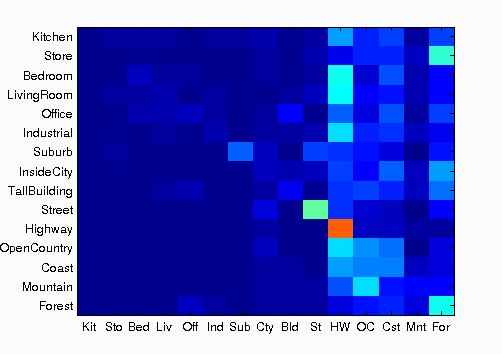
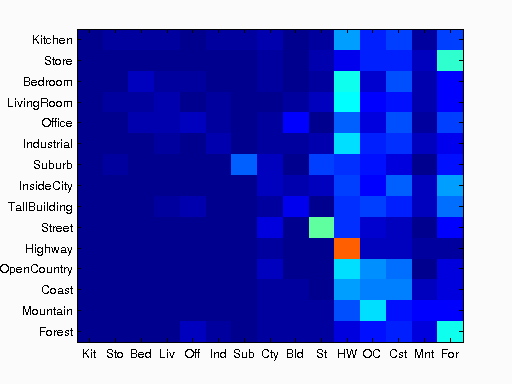
finish get_bags_of_sifts

diff --git a/mcln/proj3/code/results_webpage/index.html b/mcln/proj3/code/results_webpage/index.html
@@ -51,182 +51,182 @@ Accuracy (mean of diagonal of confusion matrix) is 0.188
 <tr>
 <td>Kitchen</td>
 <td>0.010</td>
-<td bgcolor=LightBlue><img src="thumbnails/Kitchen_image_0020.jpg" width=100 height=75></td>
-<td bgcolor=LightBlue><img src="thumbnails/Kitchen_image_0058.jpg" width=98 height=75></td>
+<td bgcolor=LightBlue><img src="thumbnails/Kitchen_image_0208.jpg" width=100 height=75></td>
+<td bgcolor=LightBlue><img src="thumbnails/Kitchen_image_0074.jpg" width=107 height=75></td>
 <td bgcolor=LightGreen><img src="thumbnails/Kitchen_image_0003.jpg" width=100 height=75></td>
 <td bgcolor=LightGreen></td>
-<td bgcolor=LightCoral><img src="thumbnails/TallBuilding_image_0113.jpg" width=75 height=75><br><small>TallBuilding</small></td>
 <td bgcolor=LightCoral><img src="thumbnails/Suburb_image_0050.jpg" width=113 height=75><br><small>Suburb</small></td>
-<td bgcolor=#FFBB55><img src="thumbnails/Kitchen_image_0021.jpg" width=100 height=75><br><small>InsideCity</small></td>
-<td bgcolor=#FFBB55><img src="thumbnails/Kitchen_image_0051.jpg" width=100 height=75><br><small>Coast</small></td>
+<td bgcolor=LightCoral><img src="thumbnails/Street_image_0149.jpg" width=75 height=75><br><small>Street</small></td>
+<td bgcolor=#FFBB55><img src="thumbnails/Kitchen_image_0027.jpg" width=57 height=75><br><small>Highway</small></td>
+<td bgcolor=#FFBB55><img src="thumbnails/Kitchen_image_0122.jpg" width=57 height=75><br><small>Forest</small></td>
 </tr>
 <tr>
 <td>Store</td>
 <td>0.010</td>
-<td bgcolor=LightBlue><img src="thumbnails/Store_image_0062.jpg" width=100 height=75></td>
-<td bgcolor=LightBlue><img src="thumbnails/Store_image_0253.jpg" width=114 height=75></td>
+<td bgcolor=LightBlue><img src="thumbnails/Store_image_0261.jpg" width=112 height=75></td>
+<td bgcolor=LightBlue><img src="thumbnails/Store_image_0119.jpg" width=100 height=75></td>
 <td bgcolor=LightGreen><img src="thumbnails/Store_image_0057.jpg" width=100 height=75></td>
 <td bgcolor=LightGreen></td>
-<td bgcolor=LightCoral><img src="thumbnails/Kitchen_image_0138.jpg" width=100 height=75><br><small>Kitchen</small></td>
-<td bgcolor=LightCoral><img src="thumbnails/Office_image_0067.jpg" width=117 height=75><br><small>Office</small></td>
-<td bgcolor=#FFBB55><img src="thumbnails/Store_image_0063.jpg" width=57 height=75><br><small>Forest</small></td>
-<td bgcolor=#FFBB55><img src="thumbnails/Store_image_0031.jpg" width=109 height=75><br><small>Forest</small></td>
+<td bgcolor=LightCoral><img src="thumbnails/Coast_image_0096.jpg" width=75 height=75><br><small>Coast</small></td>
+<td bgcolor=LightCoral><img src="thumbnails/Kitchen_image_0080.jpg" width=100 height=75><br><small>Kitchen</small></td>
+<td bgcolor=#FFBB55><img src="thumbnails/Store_image_0021.jpg" width=100 height=75><br><small>Street</small></td>
+<td bgcolor=#FFBB55><img src="thumbnails/Store_image_0113.jpg" width=100 height=75><br><small>Forest</small></td>
 </tr>
 <tr>
 <td>Bedroom</td>
 <td>0.060</td>
 <td bgcolor=LightBlue><img src="thumbnails/Bedroom_image_0083.jpg" width=57 height=75></td>
-<td bgcolor=LightBlue><img src="thumbnails/Bedroom_image_0101.jpg" width=104 height=75></td>
-<td bgcolor=LightGreen><img src="thumbnails/Bedroom_image_0161.jpg" width=100 height=75></td>
-<td bgcolor=LightGreen><img src="thumbnails/Bedroom_image_0180.jpg" width=78 height=75></td>
-<td bgcolor=LightCoral><img src="thumbnails/Office_image_0110.jpg" width=107 height=75><br><small>Office</small></td>
-<td bgcolor=LightCoral><img src="thumbnails/Industrial_image_0114.jpg" width=49 height=75><br><small>Industrial</small></td>
-<td bgcolor=#FFBB55><img src="thumbnails/Bedroom_image_0114.jpg" width=100 height=75><br><small>Forest</small></td>
-<td bgcolor=#FFBB55><img src="thumbnails/Bedroom_image_0021.jpg" width=113 height=75><br><small>Office</small></td>
+<td bgcolor=LightBlue><img src="thumbnails/Bedroom_image_0075.jpg" width=95 height=75></td>
+<td bgcolor=LightGreen><img src="thumbnails/Bedroom_image_0119.jpg" width=113 height=75></td>
+<td bgcolor=LightGreen><img src="thumbnails/Bedroom_image_0035.jpg" width=115 height=75></td>
+<td bgcolor=LightCoral><img src="thumbnails/Office_image_0037.jpg" width=108 height=75><br><small>Office</small></td>
+<td bgcolor=LightCoral><img src="thumbnails/LivingRoom_image_0065.jpg" width=75 height=75><br><small>LivingRoom</small></td>
+<td bgcolor=#FFBB55><img src="thumbnails/Bedroom_image_0122.jpg" width=101 height=75><br><small>Forest</small></td>
+<td bgcolor=#FFBB55><img src="thumbnails/Bedroom_image_0029.jpg" width=133 height=75><br><small>Forest</small></td>
 </tr>
 <tr>
 <td>LivingRoom</td>
 <td>0.040</td>
-<td bgcolor=LightBlue><img src="thumbnails/LivingRoom_image_0264.jpg" width=94 height=75></td>
-<td bgcolor=LightBlue><img src="thumbnails/LivingRoom_image_0115.jpg" width=111 height=75></td>
-<td bgcolor=LightGreen><img src="thumbnails/LivingRoom_image_0003.jpg" width=114 height=75></td>
+<td bgcolor=LightBlue><img src="thumbnails/LivingRoom_image_0006.jpg" width=113 height=75></td>
+<td bgcolor=LightBlue><img src="thumbnails/LivingRoom_image_0193.jpg" width=101 height=75></td>
+<td bgcolor=LightGreen><img src="thumbnails/LivingRoom_image_0068.jpg" width=100 height=75></td>
 <td bgcolor=LightGreen><img src="thumbnails/LivingRoom_image_0004.jpg" width=100 height=75></td>
-<td bgcolor=LightCoral><img src="thumbnails/Kitchen_image_0116.jpg" width=100 height=75><br><small>Kitchen</small></td>
-<td bgcolor=LightCoral><img src="thumbnails/Office_image_0007.jpg" width=119 height=75><br><small>Office</small></td>
-<td bgcolor=#FFBB55><img src="thumbnails/LivingRoom_image_0126.jpg" width=57 height=75><br><small>Forest</small></td>
-<td bgcolor=#FFBB55><img src="thumbnails/LivingRoom_image_0107.jpg" width=129 height=75><br><small>Highway</small></td>
+<td bgcolor=LightCoral><img src="thumbnails/Office_image_0158.jpg" width=121 height=75><br><small>Office</small></td>
+<td bgcolor=LightCoral><img src="thumbnails/Office_image_0024.jpg" width=111 height=75><br><small>Office</small></td>
+<td bgcolor=#FFBB55><img src="thumbnails/LivingRoom_image_0037.jpg" width=113 height=75><br><small>Street</small></td>
+<td bgcolor=#FFBB55><img src="thumbnails/LivingRoom_image_0010.jpg" width=100 height=75><br><small>Street</small></td>
 </tr>
 <tr>
 <td>Office</td>
 <td>0.050</td>
-<td bgcolor=LightBlue><img src="thumbnails/Office_image_0093.jpg" width=118 height=75></td>
-<td bgcolor=LightBlue><img src="thumbnails/Office_image_0098.jpg" width=126 height=75></td>
-<td bgcolor=LightGreen><img src="thumbnails/Office_image_0147.jpg" width=116 height=75></td>
-<td bgcolor=LightGreen><img src="thumbnails/Office_image_0075.jpg" width=103 height=75></td>
-<td bgcolor=LightCoral><img src="thumbnails/TallBuilding_image_0025.jpg" width=75 height=75><br><small>TallBuilding</small></td>
-<td bgcolor=LightCoral><img src="thumbnails/Forest_image_0017.jpg" width=75 height=75><br><small>Forest</small></td>
-<td bgcolor=#FFBB55><img src="thumbnails/Office_image_0034.jpg" width=101 height=75><br><small>Forest</small></td>
-<td bgcolor=#FFBB55><img src="thumbnails/Office_image_0072.jpg" width=113 height=75><br><small>Coast</small></td>
+<td bgcolor=LightBlue><img src="thumbnails/Office_image_0052.jpg" width=94 height=75></td>
+<td bgcolor=LightBlue><img src="thumbnails/Office_image_0178.jpg" width=122 height=75></td>
+<td bgcolor=LightGreen><img src="thumbnails/Office_image_0022.jpg" width=102 height=75></td>
+<td bgcolor=LightGreen><img src="thumbnails/Office_image_0012.jpg" width=87 height=75></td>
+<td bgcolor=LightCoral><img src="thumbnails/Forest_image_0025.jpg" width=75 height=75><br><small>Forest</small></td>
+<td bgcolor=LightCoral><img src="thumbnails/Industrial_image_0098.jpg" width=100 height=75><br><small>Industrial</small></td>
+<td bgcolor=#FFBB55><img src="thumbnails/Office_image_0148.jpg" width=100 height=75><br><small>TallBuilding</small></td>
+<td bgcolor=#FFBB55><img src="thumbnails/Office_image_0112.jpg" width=123 height=75><br><small>Highway</small></td>
 </tr>
 <tr>
 <td>Industrial</td>
 <td>0.040</td>
-<td bgcolor=LightBlue><img src="thumbnails/Industrial_image_0034.jpg" width=113 height=75></td>
-<td bgcolor=LightBlue><img src="thumbnails/Industrial_image_0036.jpg" width=113 height=75></td>
+<td bgcolor=LightBlue><img src="thumbnails/Industrial_image_0093.jpg" width=112 height=75></td>
+<td bgcolor=LightBlue><img src="thumbnails/Industrial_image_0099.jpg" width=100 height=75></td>
 <td bgcolor=LightGreen><img src="thumbnails/Industrial_image_0046.jpg" width=57 height=75></td>
-<td bgcolor=LightGreen><img src="thumbnails/Industrial_image_0035.jpg" width=77 height=75></td>
+<td bgcolor=LightGreen><img src="thumbnails/Industrial_image_0074.jpg" width=100 height=75></td>
 <td bgcolor=LightCoral><img src="thumbnails/Office_image_0146.jpg" width=121 height=75><br><small>Office</small></td>
-<td bgcolor=LightCoral><img src="thumbnails/Kitchen_image_0123.jpg" width=114 height=75><br><small>Kitchen</small></td>
-<td bgcolor=#FFBB55><img src="thumbnails/Industrial_image_0016.jpg" width=100 height=75><br><small>Coast</small></td>
-<td bgcolor=#FFBB55><img src="thumbnails/Industrial_image_0108.jpg" width=100 height=75><br><small>Highway</small></td>
+<td bgcolor=LightCoral><img src="thumbnails/Coast_image_0037.jpg" width=75 height=75><br><small>Coast</small></td>
+<td bgcolor=#FFBB55><img src="thumbnails/Industrial_image_0055.jpg" width=100 height=75><br><small>Highway</small></td>
+<td bgcolor=#FFBB55><img src="thumbnails/Industrial_image_0138.jpg" width=100 height=75><br><small>InsideCity</small></td>
 </tr>
 <tr>
 <td>Suburb</td>
 <td>0.210</td>
-<td bgcolor=LightBlue><img src="thumbnails/Suburb_image_0206.jpg" width=113 height=75></td>
-<td bgcolor=LightBlue><img src="thumbnails/Suburb_image_0163.jpg" width=113 height=75></td>
-<td bgcolor=LightGreen><img src="thumbnails/Suburb_image_0032.jpg" width=113 height=75></td>
-<td bgcolor=LightGreen><img src="thumbnails/Suburb_image_0152.jpg" width=113 height=75></td>
-<td bgcolor=LightCoral><img src="thumbnails/Bedroom_image_0082.jpg" width=121 height=75><br><small>Bedroom</small></td>
+<td bgcolor=LightBlue><img src="thumbnails/Suburb_image_0221.jpg" width=113 height=75></td>
+<td bgcolor=LightBlue><img src="thumbnails/Suburb_image_0144.jpg" width=113 height=75></td>
+<td bgcolor=LightGreen><img src="thumbnails/Suburb_image_0045.jpg" width=113 height=75></td>
+<td bgcolor=LightGreen><img src="thumbnails/Suburb_image_0037.jpg" width=113 height=75></td>
+<td bgcolor=LightCoral><img src="thumbnails/Store_image_0140.jpg" width=98 height=75><br><small>Store</small></td>
 <td bgcolor=LightCoral><img src="thumbnails/Street_image_0085.jpg" width=75 height=75><br><small>Street</small></td>
-<td bgcolor=#FFBB55><img src="thumbnails/Suburb_image_0036.jpg" width=113 height=75><br><small>InsideCity</small></td>
-<td bgcolor=#FFBB55><img src="thumbnails/Suburb_image_0122.jpg" width=113 height=75><br><small>OpenCountry</small></td>
+<td bgcolor=#FFBB55><img src="thumbnails/Suburb_image_0123.jpg" width=113 height=75><br><small>OpenCountry</small></td>
+<td bgcolor=#FFBB55><img src="thumbnails/Suburb_image_0065.jpg" width=113 height=75><br><small>Coast</small></td>
 </tr>
 <tr>
 <td>InsideCity</td>
 <td>0.060</td>
-<td bgcolor=LightBlue><img src="thumbnails/InsideCity_image_0116.jpg" width=75 height=75></td>
-<td bgcolor=LightBlue><img src="thumbnails/InsideCity_image_0169.jpg" width=75 height=75></td>
-<td bgcolor=LightGreen><img src="thumbnails/InsideCity_image_0098.jpg" width=75 height=75></td>
-<td bgcolor=LightGreen><img src="thumbnails/InsideCity_image_0085.jpg" width=75 height=75></td>
-<td bgcolor=LightCoral><img src="thumbnails/Store_image_0138.jpg" width=100 height=75><br><small>Store</small></td>
-<td bgcolor=LightCoral><img src="thumbnails/Suburb_image_0036.jpg" width=113 height=75><br><small>Suburb</small></td>
-<td bgcolor=#FFBB55><img src="thumbnails/InsideCity_image_0063.jpg" width=75 height=75><br><small>Coast</small></td>
-<td bgcolor=#FFBB55><img src="thumbnails/InsideCity_image_0053.jpg" width=75 height=75><br><small>Highway</small></td>
+<td bgcolor=LightBlue><img src="thumbnails/InsideCity_image_0293.jpg" width=75 height=75></td>
+<td bgcolor=LightBlue><img src="thumbnails/InsideCity_image_0108.jpg" width=75 height=75></td>
+<td bgcolor=LightGreen><img src="thumbnails/InsideCity_image_0002.jpg" width=75 height=75></td>
+<td bgcolor=LightGreen><img src="thumbnails/InsideCity_image_0059.jpg" width=75 height=75></td>
+<td bgcolor=LightCoral><img src="thumbnails/Office_image_0038.jpg" width=119 height=75><br><small>Office</small></td>
+<td bgcolor=LightCoral><img src="thumbnails/Suburb_image_0111.jpg" width=113 height=75><br><small>Suburb</small></td>
+<td bgcolor=#FFBB55><img src="thumbnails/InsideCity_image_0004.jpg" width=75 height=75><br><small>Coast</small></td>
+<td bgcolor=#FFBB55><img src="thumbnails/InsideCity_image_0125.jpg" width=75 height=75><br><small>Coast</small></td>
 </tr>
 <tr>
 <td>TallBuilding</td>
 <td>0.100</td>
-<td bgcolor=LightBlue><img src="thumbnails/TallBuilding_image_0280.jpg" width=75 height=75></td>
-<td bgcolor=LightBlue><img src="thumbnails/TallBuilding_image_0336.jpg" width=75 height=75></td>
-<td bgcolor=LightGreen><img src="thumbnails/TallBuilding_image_0059.jpg" width=75 height=75></td>
-<td bgcolor=LightGreen><img src="thumbnails/TallBuilding_image_0087.jpg" width=75 height=75></td>
-<td bgcolor=LightCoral><img src="thumbnails/Office_image_0118.jpg" width=113 height=75><br><small>Office</small></td>
-<td bgcolor=LightCoral><img src="thumbnails/Coast_image_0121.jpg" width=75 height=75><br><small>Coast</small></td>
-<td bgcolor=#FFBB55><img src="thumbnails/TallBuilding_image_0128.jpg" width=75 height=75><br><small>Forest</small></td>
-<td bgcolor=#FFBB55><img src="thumbnails/TallBuilding_image_0038.jpg" width=75 height=75><br><small>Forest</small></td>
+<td bgcolor=LightBlue><img src="thumbnails/TallBuilding_image_0352.jpg" width=75 height=75></td>
+<td bgcolor=LightBlue><img src="thumbnails/TallBuilding_image_0231.jpg" width=75 height=75></td>
+<td bgcolor=LightGreen><img src="thumbnails/TallBuilding_image_0022.jpg" width=75 height=75></td>
+<td bgcolor=LightGreen><img src="thumbnails/TallBuilding_image_0077.jpg" width=75 height=75></td>
+<td bgcolor=LightCoral><img src="thumbnails/LivingRoom_image_0002.jpg" width=100 height=75><br><small>LivingRoom</small></td>
+<td bgcolor=LightCoral><img src="thumbnails/LivingRoom_image_0041.jpg" width=113 height=75><br><small>LivingRoom</small></td>
+<td bgcolor=#FFBB55><img src="thumbnails/TallBuilding_image_0005.jpg" width=75 height=75><br><small>Forest</small></td>
+<td bgcolor=#FFBB55><img src="thumbnails/TallBuilding_image_0075.jpg" width=75 height=75><br><small>Forest</small></td>
 </tr>
 <tr>
 <td>Street</td>
 <td>0.460</td>
-<td bgcolor=LightBlue><img src="thumbnails/Street_image_0290.jpg" width=75 height=75></td>
-<td bgcolor=LightBlue><img src="thumbnails/Street_image_0217.jpg" width=75 height=75></td>
-<td bgcolor=LightGreen><img src="thumbnails/Street_image_0128.jpg" width=75 height=75></td>
-<td bgcolor=LightGreen><img src="thumbnails/Street_image_0121.jpg" width=75 height=75></td>
-<td bgcolor=LightCoral><img src="thumbnails/Bedroom_image_0050.jpg" width=113 height=75><br><small>Bedroom</small></td>
-<td bgcolor=LightCoral><img src="thumbnails/Suburb_image_0116.jpg" width=113 height=75><br><small>Suburb</small></td>
-<td bgcolor=#FFBB55><img src="thumbnails/Street_image_0064.jpg" width=75 height=75><br><small>InsideCity</small></td>
-<td bgcolor=#FFBB55><img src="thumbnails/Street_image_0041.jpg" width=75 height=75><br><small>Highway</small></td>
+<td bgcolor=LightBlue><img src="thumbnails/Street_image_0019.jpg" width=75 height=75></td>
+<td bgcolor=LightBlue><img src="thumbnails/Street_image_0195.jpg" width=75 height=75></td>
+<td bgcolor=LightGreen><img src="thumbnails/Street_image_0016.jpg" width=75 height=75></td>
+<td bgcolor=LightGreen><img src="thumbnails/Street_image_0036.jpg" width=75 height=75></td>
+<td bgcolor=LightCoral><img src="thumbnails/Industrial_image_0091.jpg" width=57 height=75><br><small>Industrial</small></td>
+<td bgcolor=LightCoral><img src="thumbnails/Mountain_image_0118.jpg" width=75 height=75><br><small>Mountain</small></td>
+<td bgcolor=#FFBB55><img src="thumbnails/Street_image_0077.jpg" width=75 height=75><br><small>InsideCity</small></td>
+<td bgcolor=#FFBB55><img src="thumbnails/Street_image_0056.jpg" width=75 height=75><br><small>InsideCity</small></td>
 </tr>
 <tr>
 <td>Highway</td>
 <td>0.780</td>
-<td bgcolor=LightBlue><img src="thumbnails/Highway_image_0102.jpg" width=75 height=75></td>
+<td bgcolor=LightBlue><img src="thumbnails/Highway_image_0248.jpg" width=75 height=75></td>
 <td bgcolor=LightBlue><img src="thumbnails/Highway_image_0186.jpg" width=75 height=75></td>
-<td bgcolor=LightGreen><img src="thumbnails/Highway_image_0022.jpg" width=75 height=75></td>
-<td bgcolor=LightGreen><img src="thumbnails/Highway_image_0001.jpg" width=75 height=75></td>
-<td bgcolor=LightCoral><img src="thumbnails/Office_image_0126.jpg" width=108 height=75><br><small>Office</small></td>
-<td bgcolor=LightCoral><img src="thumbnails/OpenCountry_image_0093.jpg" width=75 height=75><br><small>OpenCountry</small></td>
-<td bgcolor=#FFBB55><img src="thumbnails/Highway_image_0005.jpg" width=75 height=75><br><small>Street</small></td>
+<td bgcolor=LightGreen><img src="thumbnails/Highway_image_0108.jpg" width=75 height=75></td>
+<td bgcolor=LightGreen><img src="thumbnails/Highway_image_0161.jpg" width=75 height=75></td>
+<td bgcolor=LightCoral><img src="thumbnails/Office_image_0088.jpg" width=93 height=75><br><small>Office</small></td>
+<td bgcolor=LightCoral><img src="thumbnails/Office_image_0091.jpg" width=109 height=75><br><small>Office</small></td>
 <td bgcolor=#FFBB55><img src="thumbnails/Highway_image_0140.jpg" width=75 height=75><br><small>OpenCountry</small></td>
+<td bgcolor=#FFBB55><img src="thumbnails/Highway_image_0026.jpg" width=75 height=75><br><small>Forest</small></td>
 </tr>
 <tr>
 <td>OpenCountry</td>
 <td>0.250</td>
-<td bgcolor=LightBlue><img src="thumbnails/OpenCountry_image_0163.jpg" width=75 height=75></td>
-<td bgcolor=LightBlue><img src="thumbnails/OpenCountry_image_0367.jpg" width=75 height=75></td>
-<td bgcolor=LightGreen><img src="thumbnails/OpenCountry_image_0017.jpg" width=75 height=75></td>
-<td bgcolor=LightGreen><img src="thumbnails/OpenCountry_image_0033.jpg" width=75 height=75></td>
-<td bgcolor=LightCoral><img src="thumbnails/Highway_image_0015.jpg" width=75 height=75><br><small>Highway</small></td>
-<td bgcolor=LightCoral><img src="thumbnails/Mountain_image_0061.jpg" width=75 height=75><br><small>Mountain</small></td>
-<td bgcolor=#FFBB55><img src="thumbnails/OpenCountry_image_0090.jpg" width=75 height=75><br><small>Forest</small></td>
-<td bgcolor=#FFBB55><img src="thumbnails/OpenCountry_image_0023.jpg" width=75 height=75><br><small>InsideCity</small></td>
+<td bgcolor=LightBlue><img src="thumbnails/OpenCountry_image_0099.jpg" width=75 height=75></td>
+<td bgcolor=LightBlue><img src="thumbnails/OpenCountry_image_0366.jpg" width=75 height=75></td>
+<td bgcolor=LightGreen><img src="thumbnails/OpenCountry_image_0013.jpg" width=75 height=75></td>
+<td bgcolor=LightGreen><img src="thumbnails/OpenCountry_image_0082.jpg" width=75 height=75></td>
+<td bgcolor=LightCoral><img src="thumbnails/Kitchen_image_0166.jpg" width=111 height=75><br><small>Kitchen</small></td>
+<td bgcolor=LightCoral><img src="thumbnails/Store_image_0112.jpg" width=100 height=75><br><small>Store</small></td>
+<td bgcolor=#FFBB55><img src="thumbnails/OpenCountry_image_0114.jpg" width=75 height=75><br><small>Highway</small></td>
+<td bgcolor=#FFBB55><img src="thumbnails/OpenCountry_image_0027.jpg" width=75 height=75><br><small>Highway</small></td>
 </tr>
 <tr>
 <td>Coast</td>
 <td>0.240</td>
-<td bgcolor=LightBlue><img src="thumbnails/Coast_image_0123.jpg" width=75 height=75></td>
-<td bgcolor=LightBlue><img src="thumbnails/Coast_image_0189.jpg" width=75 height=75></td>
-<td bgcolor=LightGreen><img src="thumbnails/Coast_image_0055.jpg" width=75 height=75></td>
+<td bgcolor=LightBlue><img src="thumbnails/Coast_image_0190.jpg" width=75 height=75></td>
+<td bgcolor=LightBlue><img src="thumbnails/Coast_image_0241.jpg" width=75 height=75></td>
 <td bgcolor=LightGreen><img src="thumbnails/Coast_image_0056.jpg" width=75 height=75></td>
-<td bgcolor=LightCoral><img src="thumbnails/LivingRoom_image_0102.jpg" width=113 height=75><br><small>LivingRoom</small></td>
-<td bgcolor=LightCoral><img src="thumbnails/Store_image_0074.jpg" width=54 height=75><br><small>Store</small></td>
-<td bgcolor=#FFBB55><img src="thumbnails/Coast_image_0023.jpg" width=75 height=75><br><small>Highway</small></td>
-<td bgcolor=#FFBB55><img src="thumbnails/Coast_image_0036.jpg" width=75 height=75><br><small>Mountain</small></td>
+<td bgcolor=LightGreen><img src="thumbnails/Coast_image_0094.jpg" width=75 height=75></td>
+<td bgcolor=LightCoral><img src="thumbnails/InsideCity_image_0010.jpg" width=75 height=75><br><small>InsideCity</small></td>
+<td bgcolor=LightCoral><img src="thumbnails/Forest_image_0119.jpg" width=75 height=75><br><small>Forest</small></td>
+<td bgcolor=#FFBB55><img src="thumbnails/Coast_image_0064.jpg" width=75 height=75><br><small>Highway</small></td>
+<td bgcolor=#FFBB55><img src="thumbnails/Coast_image_0078.jpg" width=75 height=75><br><small>OpenCountry</small></td>
 </tr>
 <tr>
 <td>Mountain</td>
 <td>0.120</td>
-<td bgcolor=LightBlue><img src="thumbnails/Mountain_image_0111.jpg" width=75 height=75></td>
-<td bgcolor=LightBlue><img src="thumbnails/Mountain_image_0324.jpg" width=75 height=75></td>
-<td bgcolor=LightGreen><img src="thumbnails/Mountain_image_0011.jpg" width=75 height=75></td>
+<td bgcolor=LightBlue><img src="thumbnails/Mountain_image_0138.jpg" width=75 height=75></td>
+<td bgcolor=LightBlue><img src="thumbnails/Mountain_image_0349.jpg" width=75 height=75></td>
 <td bgcolor=LightGreen><img src="thumbnails/Mountain_image_0017.jpg" width=75 height=75></td>
-<td bgcolor=LightCoral><img src="thumbnails/Forest_image_0033.jpg" width=75 height=75><br><small>Forest</small></td>
-<td bgcolor=LightCoral><img src="thumbnails/Coast_image_0025.jpg" width=75 height=75><br><small>Coast</small></td>
-<td bgcolor=#FFBB55><img src="thumbnails/Mountain_image_0001.jpg" width=75 height=75><br><small>OpenCountry</small></td>
-<td bgcolor=#FFBB55><img src="thumbnails/Mountain_image_0003.jpg" width=75 height=75><br><small>OpenCountry</small></td>
+<td bgcolor=LightGreen><img src="thumbnails/Mountain_image_0091.jpg" width=75 height=75></td>
+<td bgcolor=LightCoral><img src="thumbnails/LivingRoom_image_0007.jpg" width=109 height=75><br><small>LivingRoom</small></td>
+<td bgcolor=LightCoral><img src="thumbnails/Store_image_0002.jpg" width=100 height=75><br><small>Store</small></td>
+<td bgcolor=#FFBB55><img src="thumbnails/Mountain_image_0085.jpg" width=75 height=75><br><small>Highway</small></td>
+<td bgcolor=#FFBB55><img src="thumbnails/Mountain_image_0031.jpg" width=75 height=75><br><small>OpenCountry</small></td>
 </tr>
 <tr>
 <td>Forest</td>
 <td>0.390</td>
-<td bgcolor=LightBlue><img src="thumbnails/Forest_image_0015.jpg" width=75 height=75></td>
-<td bgcolor=LightBlue><img src="thumbnails/Forest_image_0227.jpg" width=75 height=75></td>
-<td bgcolor=LightGreen><img src="thumbnails/Forest_image_0118.jpg" width=75 height=75></td>
-<td bgcolor=LightGreen><img src="thumbnails/Forest_image_0009.jpg" width=75 height=75></td>
-<td bgcolor=LightCoral><img src="thumbnails/Street_image_0062.jpg" width=75 height=75><br><small>Street</small></td>
-<td bgcolor=LightCoral><img src="thumbnails/Store_image_0063.jpg" width=57 height=75><br><small>Store</small></td>
-<td bgcolor=#FFBB55><img src="thumbnails/Forest_image_0102.jpg" width=75 height=75><br><small>Coast</small></td>
+<td bgcolor=LightBlue><img src="thumbnails/Forest_image_0187.jpg" width=75 height=75></td>
+<td bgcolor=LightBlue><img src="thumbnails/Forest_image_0308.jpg" width=75 height=75></td>
+<td bgcolor=LightGreen><img src="thumbnails/Forest_image_0053.jpg" width=75 height=75></td>
+<td bgcolor=LightGreen><img src="thumbnails/Forest_image_0026.jpg" width=75 height=75></td>
+<td bgcolor=LightCoral><img src="thumbnails/Bedroom_image_0098.jpg" width=91 height=75><br><small>Bedroom</small></td>
+<td bgcolor=LightCoral><img src="thumbnails/Bedroom_image_0122.jpg" width=101 height=75><br><small>Bedroom</small></td>
 <td bgcolor=#FFBB55><img src="thumbnails/Forest_image_0130.jpg" width=75 height=75><br><small>OpenCountry</small></td>
+<td bgcolor=#FFBB55><img src="thumbnails/Forest_image_0070.jpg" width=75 height=75><br><small>OpenCountry</small></td>
 </tr>
 <tr>
 <th>Category name</th>

diff --git a/mcln/proj3/code/get_bags_of_sifts.m b/mcln/proj3/code/get_bags_of_sifts.m
@@ -59,20 +59,27 @@ and using KD-trees.
 %}
 
 load('vocab.mat')
-vocab_size = size(vocab, 2);numImage = size(image_paths)
+vocab_size = size(vocab, 2);
+numImage = size(image_paths);
 Numimg = numImage(1)
-image_feats[];
+image_feats = [];
+fastNeibor = vl_kdtreebuild(vocab');
 for i=1:Numimg
-  img = imread(image_paths{i});
-  [locations, SIFT_features] = vl_dsift(img);
+  img = single(imread(image_paths{i}));
+  img =rgb2gray(img);
+  [locations, SIFT_features] = vl_dsift(img,'step',3,'size',8);
+  [index , dist] = vl_kdtreequery(fastNeibor , vocab' , double(SIFT_features));
+  
+  histogram = hist(double(index), vocab_size);
+  featureHist = histogram ./ histogram;
   D = vl_alldist2(SIFT_features,vocab');
-  index = zeros(vocab_size);
-  for j=1:Numimg
-      [TMP,I] = min(D(i,:));
-      index[I(1)] = index[I(1)] + 1;
-  end
-  feature_hist = index ./ sum(index);
-  image_feats(i,:) = feature_hist;
+  %index = zeros(vocab_size);
+  %for j=1:Numimg
+  %    [TMP,I] = min(D(i,:));
+  %    index[I(1)] = index[I(1)] + 1;
+  %end
+  %feature_hist = index ./ sum(index);
+  image_feats(i,:) = featureHist;
 end
 
 

diff --git a/mcln/proj3/code/build_vocabulary.m b/mcln/proj3/code/build_vocabulary.m
@@ -11,14 +11,22 @@ function vocab = build_vocabulary( image_paths, vocab_size )
 % centroid / visual word.
 sizebag = size(image_paths)
 Nimg = sizebag(1)
-features[];
+binsize = 8;
+step = 15;
+features = [];
 for i=1:Nimg
-  img = imread(image_paths{i});
-  [locations, SIFT_features] = vl_dsift(img) 
+  i
+  img = single( imread(image_paths{i}) );
+  if size(img, 3) > 1
+        img =rgb2gray(img);
+  end
+  [locations, SIFT_features] = vl_dsift(img,'step', step, 'size', binsize);
   features = [features,SIFT_features];
+  i
 end
 [centers, assignment] = vl_kmeans(double(features), vocab_size);
 vocab =centers';
+
 %{
 Useful functions:
 [locations, SIFT_features] = vl_dsift(img) 

diff --git a/mcln/proj3/code/proj3.m b/mcln/proj3/code/proj3.m
@@ -15,8 +15,8 @@
 %code does not crash when run unmodified and you can get a preview of how
 %results are presented.
 
- FEATURE = 'tiny image';
-% FEATURE = 'bag of sift';
+% FEATURE = 'tiny image';
+ FEATURE = 'bag of sift';
 %FEATURE = 'placeholder';
 
  CLASSIFIER = 'nearest neighbor';
